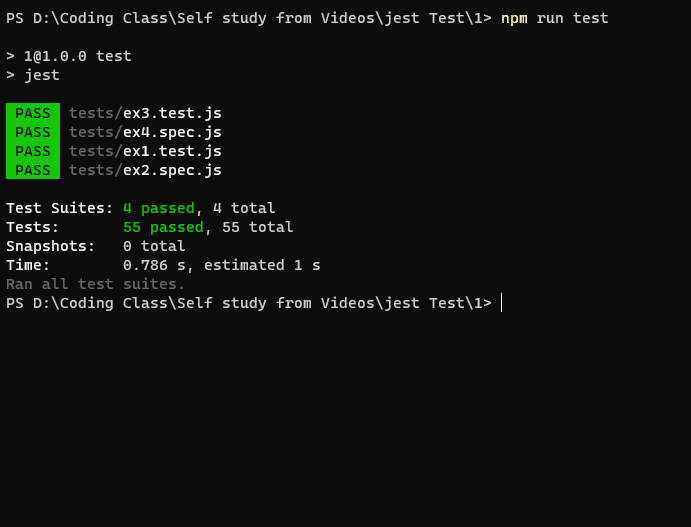
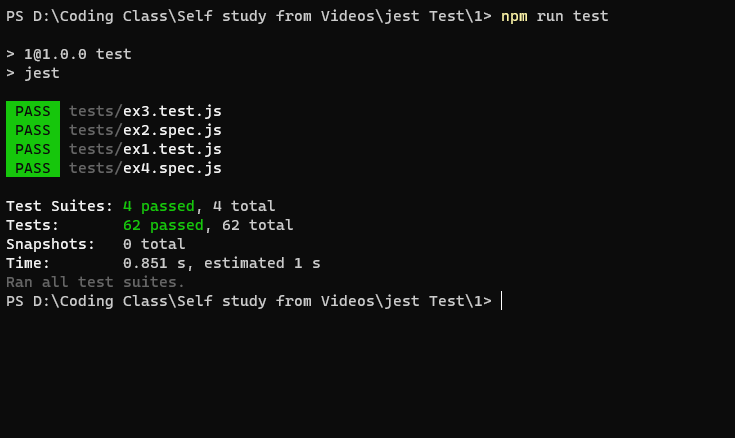
ex4.js file is on progress

Changed region(s): [[0.0, 0.089, 0.7294, 0.7123], [0.0, 0.0, 0.8813, 0.0594]]

diff --git a/tests/ex4.spec.js b/tests/ex4.spec.js
@@ -1,5 +1,5 @@
 // @ts-nocheck
-const { ex1, ex2, ex3 } = require("../masalalar/ex4");
+const { ex1, ex2, ex3, ex4 } = require("../masalalar/ex4");
 
 describe(`
 Given a year, report if it is a leap year.
@@ -98,5 +98,48 @@ abc,def,ghi\njkl,mno,pqr\nstu,vwx,yza
     expect(result).toContainEqual(a3);
     expect(result).toContainEqual(a2);
     expect(result).toContainEqual(a1);
+  });
+});
+
+describe(`
+Write a JavaScript program to generate a random hexadecimal color code.
+`, () => {
+  test("should return true if # in the value", () => {
+    let char = "#";
+    let result = ex4();
+    expect(result).toEqual(expect.stringContaining(char));
+    expect(result).toMatch(/#[a-f0-9]/);
+  });
+
+  test("should return true if length of value equal 7", () => {
+    let len = 7;
+    let result = ex4(len).length;
+    expect(result).toEqual(7);
+  });
+  test("should return true if one of 'abcdef0123456789' is in value", () => {
+    let result = ex4();
+    expect(result).toMatch(/#[abcdef0123456789]/);
+  });
+  test("should return true if length of return not equal 7", () => {
+    let result = ex4().length;
+    expect(result).not.toBe(9);
+    expect(result).not.toEqual(5);
+    expect(result).toBeGreaterThan(6);
+    expect(result).toBeLessThan(8);
+  });
+  test("should return true if one of 'abcdef0123456789' is not in value", () => {
+    let result = ex4();
+    expect(result).not.toMatch(/[higklmnopqrstuvwxyz]/);
+  });
+  test("should return true if value's type is string", () => {
+    let result = ex4();
+    expect(typeof result).toBe("string");
+    expect(typeof result).toEqual("string");
+  });
+  test("should return true if value's type is not number, object and boolean", () => {
+    let result = ex4();
+    expect(typeof result).not.toBe("number");
+    expect(typeof result).not.toEqual("object");
+    expect(typeof result).not.toMatch("boolean");
   });
 });

diff --git a/tests/ex2.spec.js b/tests/ex2.spec.js
@@ -89,12 +89,12 @@ character.
   });
 
   it("shoud return false if given string does not contain 2 to 4 occurrences of a specified character", () => {
-    expect(ex5("asdfwe*qw231","a")).toBeFalsy();
-    expect(ex5("asdfwe*qw231","a")).not.toBeTruthy();
+    expect(ex5("asdfwe*qw231", "a")).toBeFalsy();
+    expect(ex5("asdfwe*qw231", "a")).not.toBeTruthy();
   });
 
   it("shoud return false if given string does not contain 2 to 4 occurrences of a specified character", () => {
-    expect(ex5("asdfawe*aqwa23a1","a")).toBeFalsy();
-    expect(ex5("asdfawe*aqwa23a1","a")).not.toBeTruthy();
+    expect(ex5("asdfawe*aqwa23a1", "a")).toBeFalsy();
+    expect(ex5("asdfawe*aqwa23a1", "a")).not.toBeTruthy();
   });
 });

diff --git a/masalalar/ex4.js b/masalalar/ex4.js
@@ -7,10 +7,23 @@ const ex2 = (/** @type {Object} */ obj1, /** @type {Object} */ obj2) =>
   Object.keys(obj1).every((key) => obj2[key]);
 
 // ex3;
-const ex3 = (/** @type {string} */ str) => str.split("\n").map((/** @type {string} */ s)=> s.split(","))
+const ex3 = (/** @type {string} */ str) =>
+  str.split("\n").map((/** @type {string} */ s) => s.split(","));
+
+// ex4;
+const ex4 = () => {
+  let result = "#";
+  let all = "abcdef0123456789".split("");
+  for (let i = 0; i < 6; i++) {
+    let random = Math.floor(Math.random() * 7);
+    result += all[random];
+  }
+  return result;
+};
 
 module.exports = {
   ex1,
   ex2,
-  ex3
+  ex3,
+  ex4,
 };
